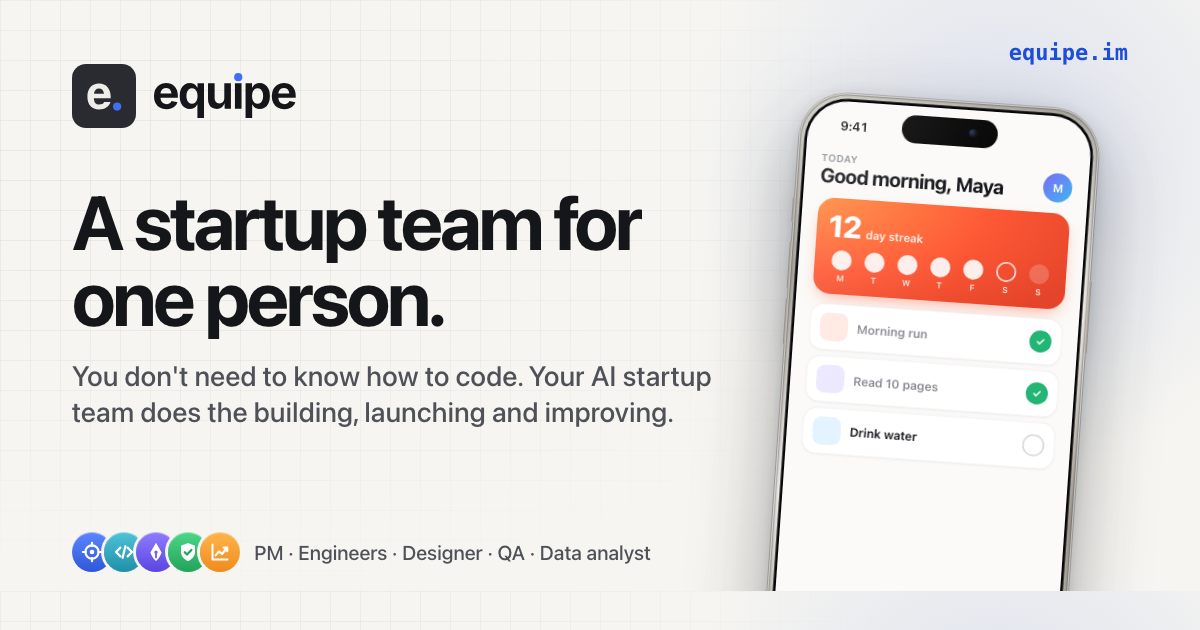
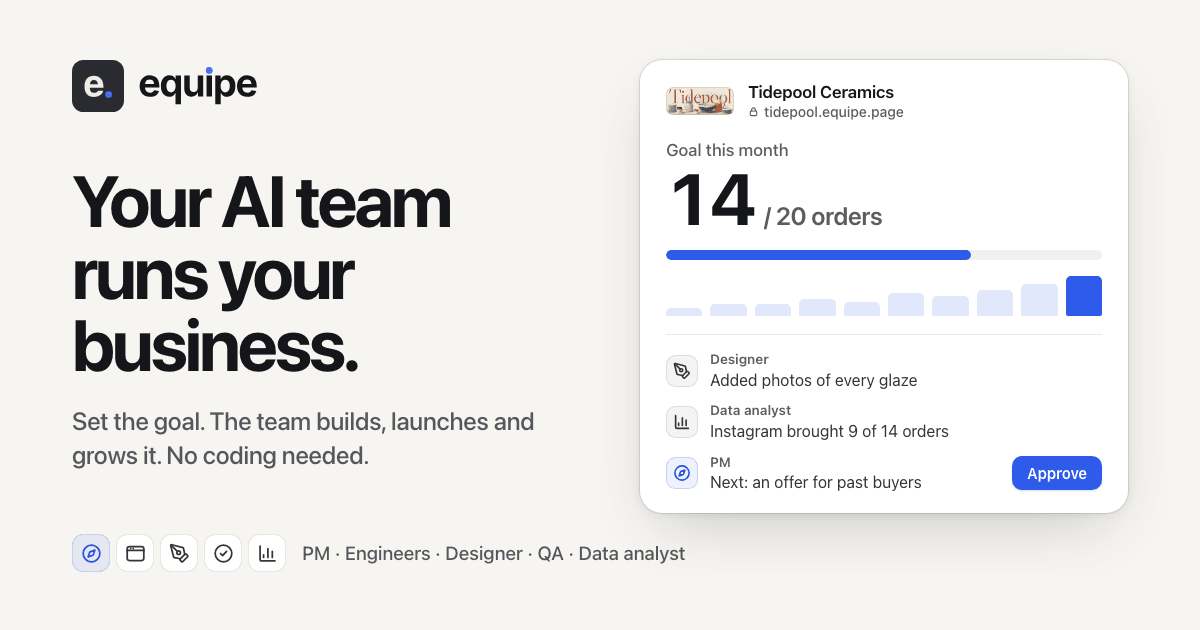
Social images v2: "Your AI team runs your business." with a goal card for a demo business, in 8 languages; own images for /pricing and /blog
The habit-tracker phone said "app"; the card now shows a business the team runs: Tidepool Ceramics (the live demo
site), 14 of 20 orders this month, what the designer and data analyst did, and the PM's next step waiting for approval.
Role marks from the web app in one neutral tone with the PM in equipe blue, no glow. Files move to /og/v2/ so social
sites fetch the new picture; /og.png stays as a copy of the English one. ogImageAlt follows the new words.

Changed region(s): [[0.0617, 0.0603, 0.9558, 0.9349], [0.0617, 0.8444, 0.5858, 0.9048], [0.0617, 0.0905, 0.2467, 0.2111]]

diff --git a/src/i18n/ja.ts b/src/i18n/ja.ts
@@ -8,7 +8,7 @@ const ja: Messages = {
     ogTitle: 'equipe — ひとりのためのスタートアップチーム',
     ogDescription:
       'Claudeで作ったものを、本物のサービスに。PM、エンジニア、デザイナー、QA、データ分析担当が、作って、公開して、育てます。あなたは承認するだけ。',
-    ogImageAlt: 'equipe — ひとりのためのスタートアップチーム。あなたは承認するだけ。チームが作り、公開し、育てます。',
+    ogImageAlt: 'equipe — AIチームが、あなたのビジネスを回す。目標を決めるだけ。作る、公開する、伸ばすのはチーム。コードは要りません。',
   },
   ui: {
     skip: '本文へスキップ',

diff --git a/src/i18n/ko.ts b/src/i18n/ko.ts
@@ -8,7 +8,7 @@ const ko: Messages = {
     ogTitle: 'equipe — 혼자서도 스타트업 팀이 생겨요',
     ogDescription:
       'Claude로 만든 걸 진짜 서비스로. PM, 엔지니어, 디자이너, QA, 데이터 분석가가 만들고, 출시하고, 키워요. 나는 승인만 하면 돼요.',
-    ogImageAlt: 'equipe — 혼자서도 스타트업 팀이 생겨요. 승인은 내가, 만들고 출시하고 키우는 건 팀이.',
+    ogImageAlt: 'equipe — AI 팀이 내 사업을 운영해요. 목표만 정하세요. 만들고, 출시하고, 키우는 건 팀이 해요. 코딩은 몰라도 돼요.',
   },
   ui: {
     skip: '본문으로 건너뛰기',

diff --git a/src/i18n/fr.ts b/src/i18n/fr.ts
@@ -9,7 +9,7 @@ const fr: Messages = {
     ogTitle: 'equipe — Une équipe de startup pour une seule personne',
     ogDescription:
       'Faites de votre projet Claude un vrai service. Un PM, des ingénieurs, un designer, la QA et un analyste de données le construisent, le lancent et le font grandir. Vous approuvez.',
-    ogImageAlt: 'equipe — Une équipe de startup pour une seule personne. Vous approuvez. L’équipe construit, lance et fait grandir.',
+    ogImageAlt: 'equipe — Votre équipe IA fait tourner votre activité. Vous fixez l’objectif. L’équipe construit, lance et fait grandir. Sans coder.',
   },
   ui: {
     skip: 'Aller au contenu',

diff --git a/src/i18n/es.ts b/src/i18n/es.ts
@@ -8,7 +8,7 @@ const es: Messages = {
     ogTitle: 'equipe — Un equipo de startup para una sola persona',
     ogDescription:
       'Lleva lo que hiciste en Claude a un servicio real. Un PM, ingenieros, un diseñador, QA y un analista de datos lo construyen, lo publican y lo hacen crecer. Tú apruebas.',
-    ogImageAlt: 'equipe — Un equipo de startup para una sola persona. Tú apruebas. El equipo lo construye, lo publica y lo hace crecer.',
+    ogImageAlt: 'equipe — Tu equipo de IA lleva tu negocio. Tú pones la meta. El equipo construye, lanza y hace crecer. Sin programar.',
   },
   ui: {
     skip: 'Saltar al contenido',

diff --git a/src/i18n/de.ts b/src/i18n/de.ts
@@ -8,7 +8,7 @@ const de: Messages = {
     ogTitle: 'equipe — Ein Startup-Team für eine Person',
     ogDescription:
       'Aus deinem Claude-Projekt wird ein echter Dienst. Ein PM, Engineers, Designer, QA und ein Datenanalyst bauen, veröffentlichen und entwickeln ihn weiter. Du gibst frei.',
-    ogImageAlt: 'equipe — Ein Startup-Team für eine Person. Du gibst frei. Das Team baut, veröffentlicht und lässt es wachsen.',
+    ogImageAlt: 'equipe — Dein KI-Team führt dein Business. Du setzt das Ziel. Das Team baut, startet und lässt es wachsen. Ohne Programmieren.',
   },
   ui: {
     skip: 'Zum Inhalt springen',

diff --git a/src/i18n/pt-BR.ts b/src/i18n/pt-BR.ts
@@ -8,7 +8,7 @@ const ptBR: Messages = {
     ogTitle: 'equipe — Um time de startup para uma pessoa só',
     ogDescription:
       'Leve o que você fez no Claude a um serviço de verdade. Um PM, engenheiros, um designer, QA e um analista de dados constroem, publicam e fazem crescer. Você aprova.',
-    ogImageAlt: 'equipe — Um time de startup para uma pessoa só. Você aprova. O time constrói, publica e faz crescer.',
+    ogImageAlt: 'equipe — Seu time de IA toca o seu negócio. Você define a meta. O time constrói, lança e faz crescer. Sem programar.',
   },
   ui: {
     skip: 'Ir para o conteúdo',

diff --git a/src/data/site.ts b/src/data/site.ts
@@ -26,10 +26,10 @@ export const SITE = {
   },
   roadmap: 'https://github.com/equipe-labs/equipe/blob/main/docs/ROADMAP.md',
   architecture: 'https://github.com/equipe-labs/equipe/blob/main/docs/ARCHITECTURE.md',
-  /** Fallback social image; each language page uses /og/<slug>.png (scripts/og.mjs). */
   supportEmail: 'support@equipe.im',
   issues: 'https://github.com/equipe-labs/equipe/issues',
-  ogImage: '/og.png',
+  /** Fallback social image (English); each language page uses /og/v2/<slug>.png (scripts/og.mjs). */
+  ogImage: '/og/v2/en.png',
   themeColor: '#F6F5F1',
   themeColorDark: '#17181C',
 };

diff --git a/src/i18n/zh-CN.ts b/src/i18n/zh-CN.ts
@@ -8,7 +8,7 @@ const zhCN: Messages = {
     ogTitle: 'equipe — 一个人的创业团队',
     ogDescription:
       '把你在 Claude 里做的东西变成真正的服务。PM、工程师、设计师、QA 和数据分析师负责开发、上线和增长。你只需批准。',
-    ogImageAlt: 'equipe — 一个人的创业团队。你只需批准，团队负责开发、上线和增长。',
+    ogImageAlt: 'equipe — AI 团队帮你经营生意。定好目标就行。开发、上线和增长都交给团队。不用写代码。',
   },
   ui: {
     skip: '跳到正文',

diff --git a/src/i18n/en.ts b/src/i18n/en.ts
@@ -10,7 +10,7 @@ export const en = {
     ogTitle: 'equipe — A startup team for one person',
     ogDescription:
       'Take what you built in Claude to a real service. A PM, engineers, a designer, QA and a data analyst build, ship and grow it. You approve.',
-    ogImageAlt: 'equipe — A startup team for one person. You approve. The team builds, ships and grows it.',
+    ogImageAlt: 'equipe — Your AI team runs your business. Set the goal. The team builds, launches and grows it. No coding needed.',
   },
   ui: {
     skip: 'Skip to content',

diff --git a/docs/i18n.md b/docs/i18n.md
@@ -75,7 +75,7 @@ Notes:
   ("영어 그대로 보기"). `ui.bannerAlso` is the small line in the page's own language;
   its `{language}` is the suggested language's own name ("This page is also available in 한국어.").
 - Follow `design/i18n/glossary.md` (terms, tone, SEO keywords per language) if it is present on your branch.
-- Each language has its own social image, `/og/<slug>.png` (English: `/og/en.png`), generated by `node scripts/og.mjs` from `meta.ogImageAlt`. `/og.png` is kept as a copy of the English one.
+- Each language has its own social image, `/og/v2/<slug>.png` (English: `/og/v2/en.png`), plus `/og/v2/pricing-<slug>.png` for /pricing and `/og/v2/blog-<slug>.png` for /blog, all generated by `node scripts/og.mjs` (the home card's words are in its `HOME` table; keep `meta.ogImageAlt` saying the same). `/og.png` is kept as a copy of the English one. Bump the folder (v2 → v3) when the look changes, so social sites fetch the new picture.
 
 ## What the build generates for each language
 
